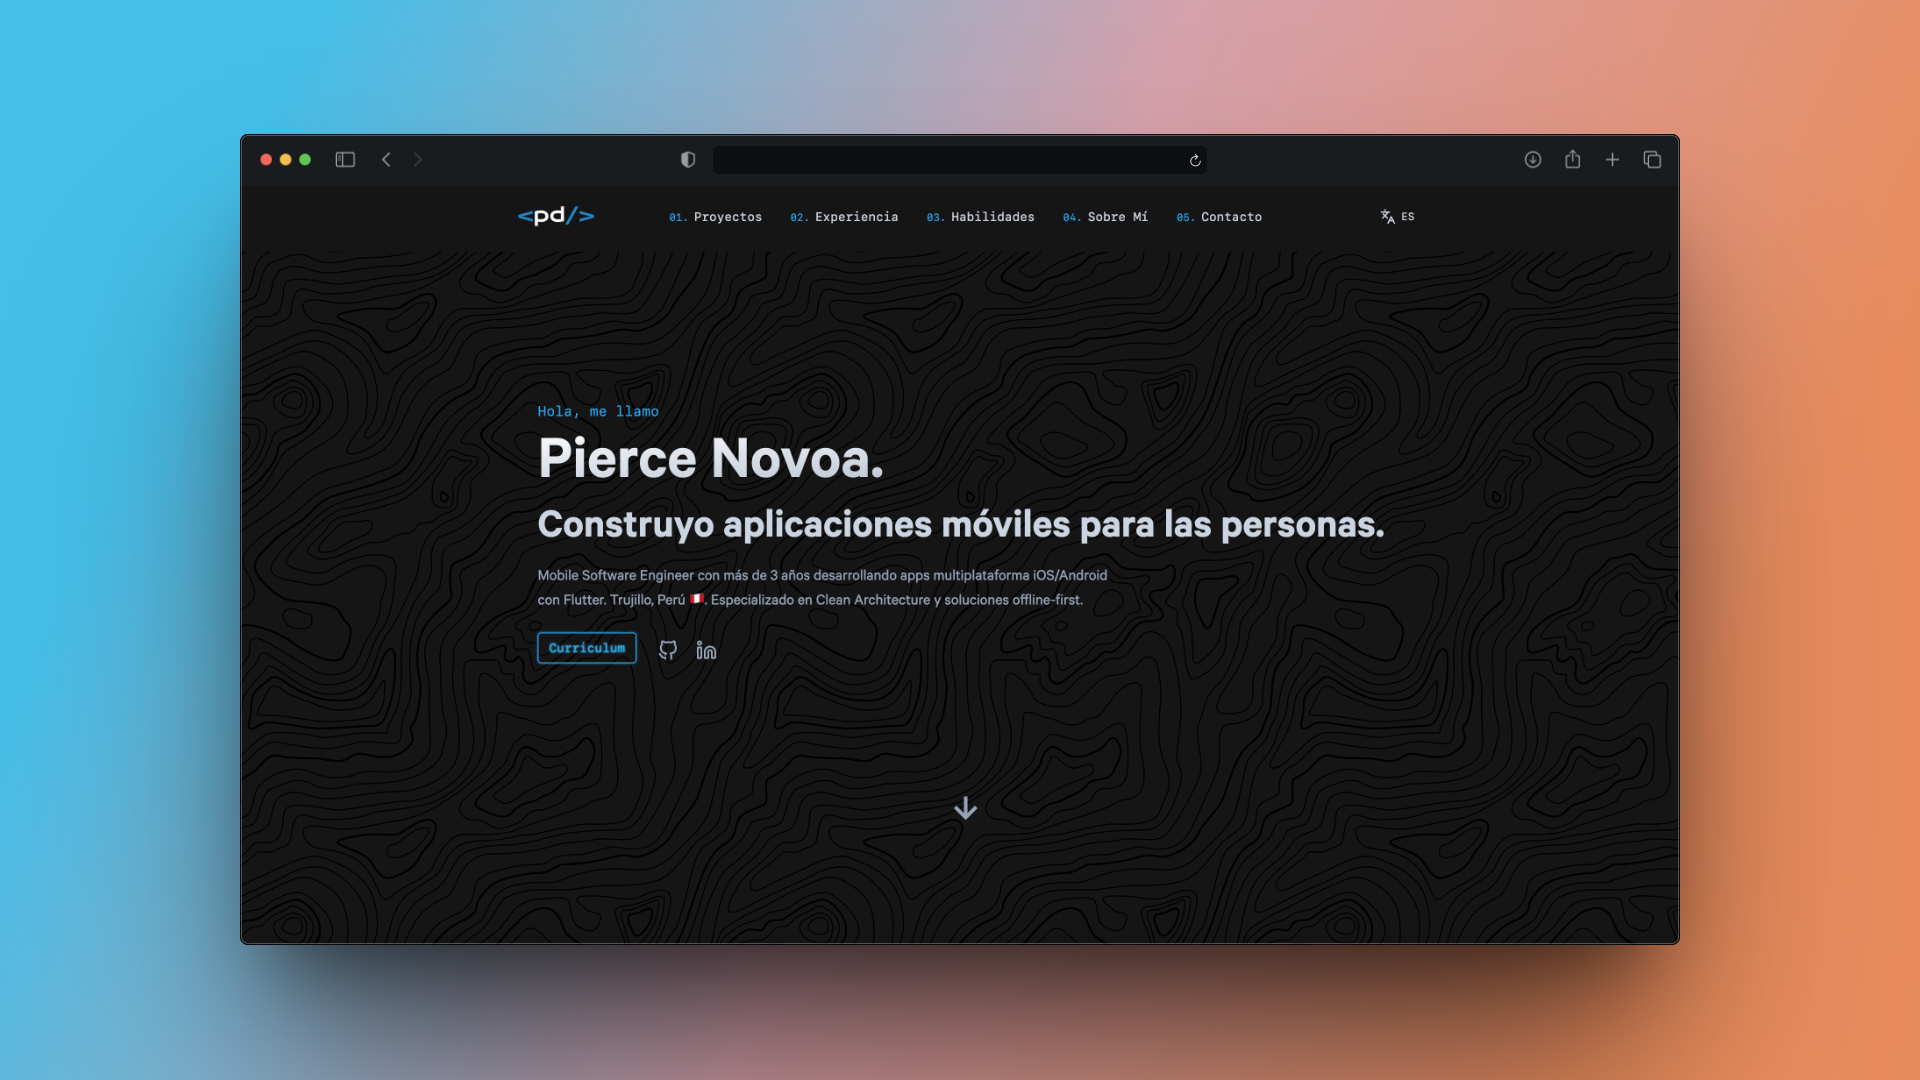
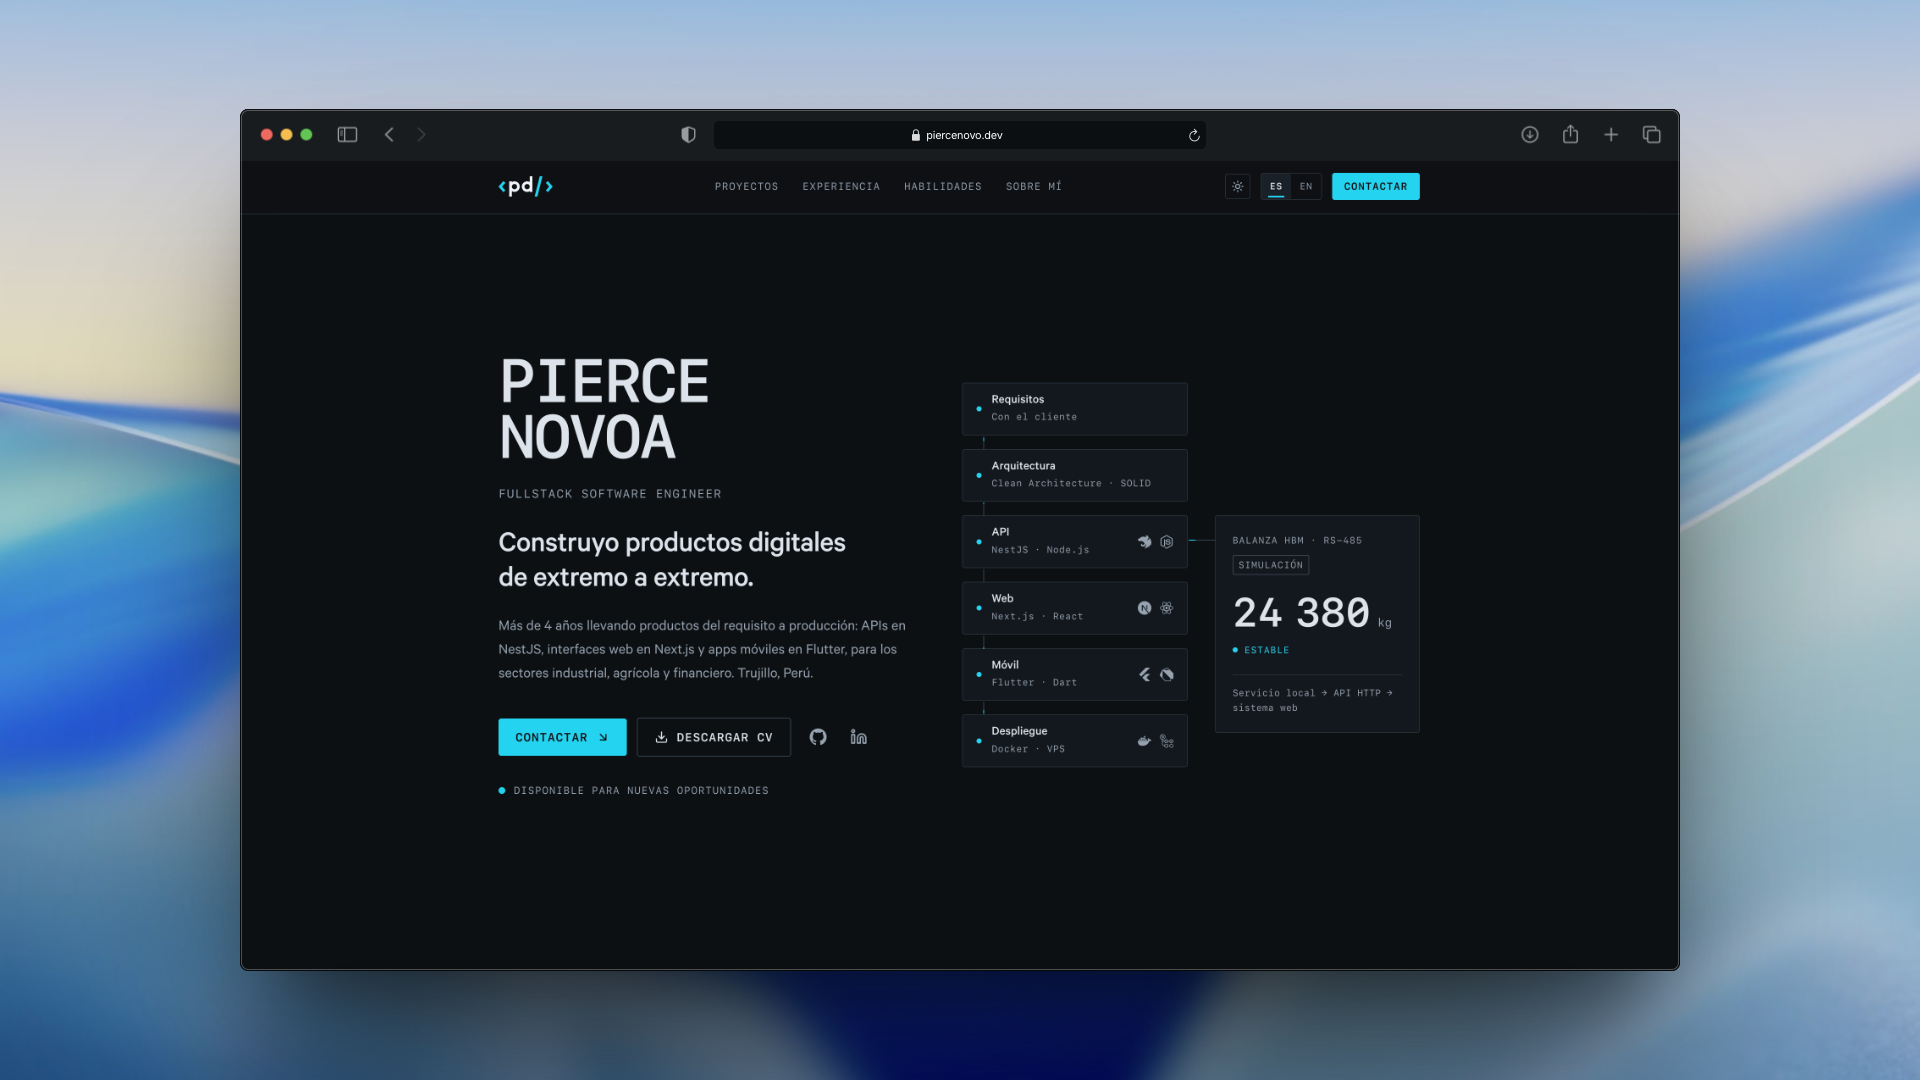
chore: use portfolio screenshot for social previews
Open Graph and X now use the updated README screenshot at its real
1920x1080 size instead of a duplicated og.png.

diff --git a/src/i18n/metadata.ts b/src/i18n/metadata.ts
@@ -32,13 +32,15 @@ export function buildMetadata(lang: Locale): Metadata {
       siteName: 'Pierce Novoa',
       locale: OPEN_GRAPH_LOCALE[lang],
       type: 'website',
-      images: [{ url: '/og.png', width: 1200, height: 630, alt: meta.title }]
+      // Same screenshot as the README; declared at its real size (16:9), so
+      // networks crop it slightly to 1.91:1
+      images: [{ url: '/images/portfolio-screen.png', width: 1920, height: 1080, alt: meta.title }]
     },
     twitter: {
       card: 'summary_large_image',
       title: meta.title,
       description: meta.description,
-      images: ['/og.png']
+      images: ['/images/portfolio-screen.png']
     }
   }
 }
